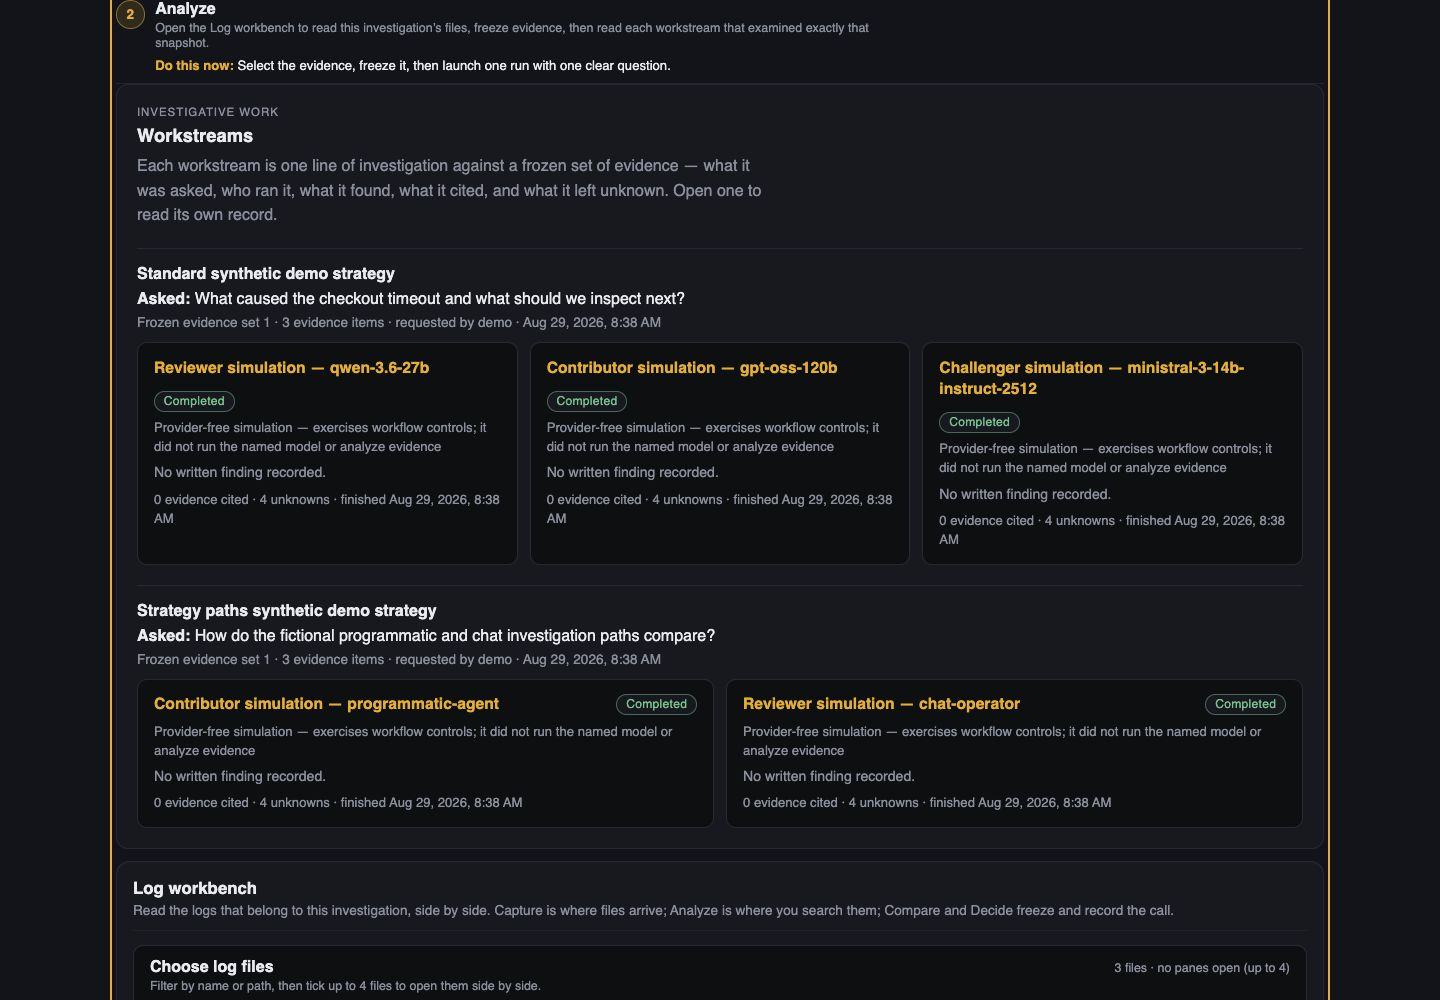
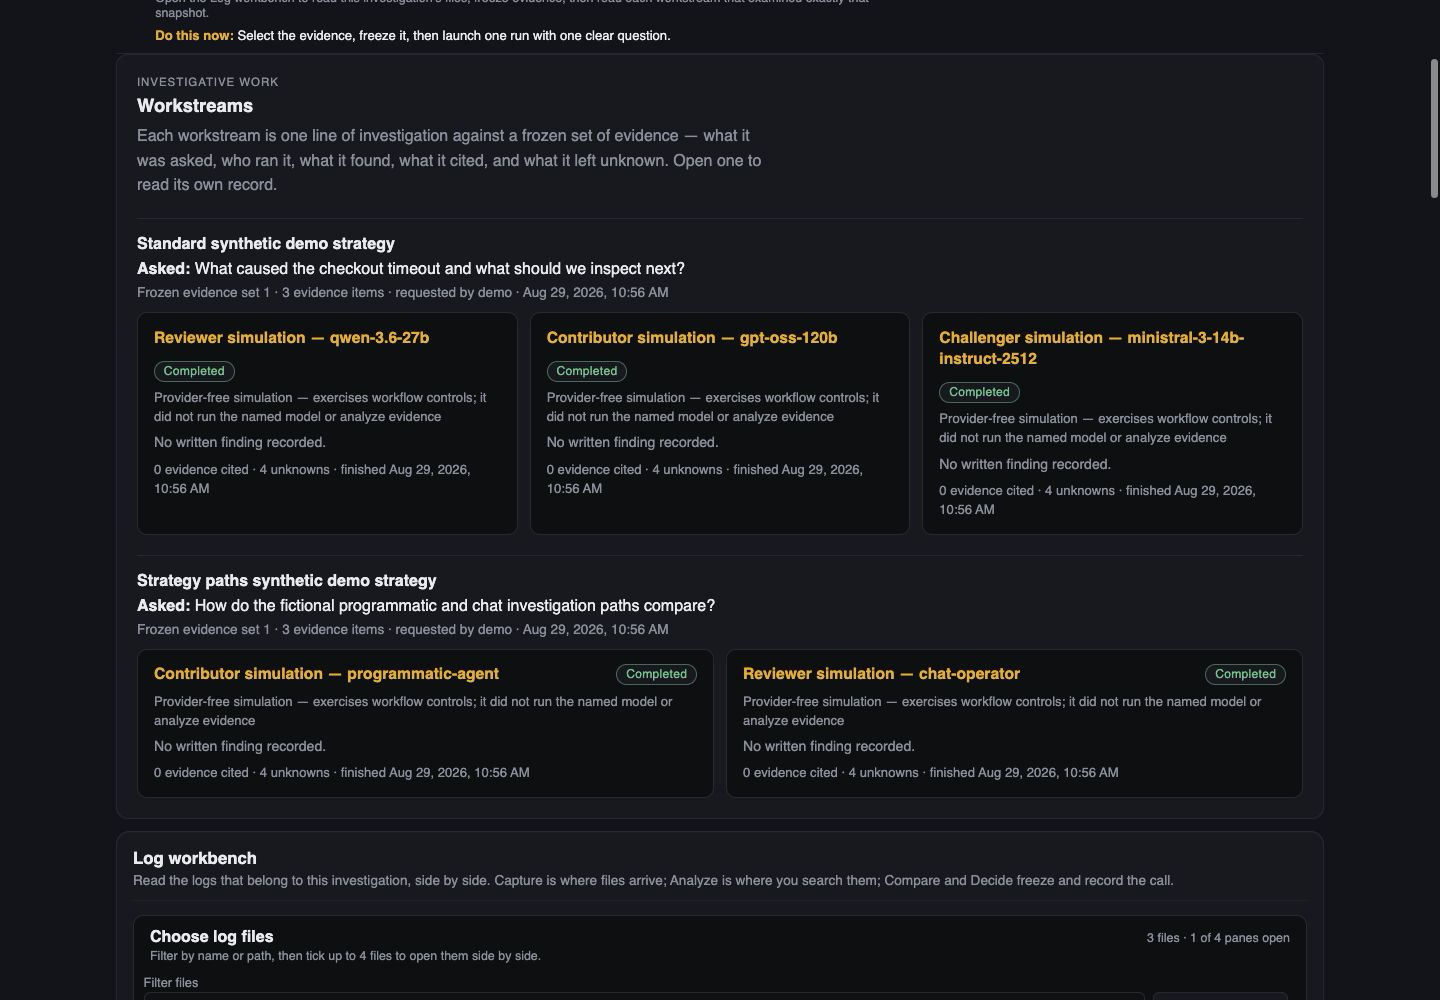
Refresh Analyze gallery for current workbench default

diff --git a/docs/media/README.md b/docs/media/README.md
@@ -53,16 +53,19 @@ credential, private path, or non-synthetic corpus is visible.
 | --- | --- | --- | --- | --- |
 | `gallery/war-room-overview.png` | Overview activity feed and active investigation | 1440 × 1000 PNG | `5508e9e63b540d1ba5080fc7d70eecd74f08e332` | Synthetic checkout-timeout War Room demo |
 | `gallery/war-room-capture-analyze.png` | Capture provenance, imported-output boundary, and corpus intake | 1440 × 1000 PNG | `5508e9e63b540d1ba5080fc7d70eecd74f08e332` | Synthetic checkout-timeout War Room demo |
-| `gallery/war-room-analyze.png` | Workstreams and investigation-owned Log workbench | 1440 × 1000 PNG | `5508e9e63b540d1ba5080fc7d70eecd74f08e332` | Synthetic checkout-timeout War Room demo |
+| `gallery/war-room-analyze.png` | Workstreams and current default-selected checkout.log in the investigation-owned Log workbench | 1440 × 1000 PNG | `af3ab0ae88ddb9fa143149f52f38e9e0704e625c` | Synthetic checkout-timeout War Room demo |
 | `gallery/war-room-compare-decide.png` | Comparison lab, evidence, deep links, and lane focus | 1440 × 1000 PNG | `5508e9e63b540d1ba5080fc7d70eecd74f08e332` | Synthetic checkout-timeout War Room demo |
 | `gallery/war-room-decide-export.png` | Portable archive download and dry-run controls with exact-restore warning | 1440 × 1000 PNG | `5508e9e63b540d1ba5080fc7d70eecd74f08e332` | Synthetic checkout-timeout War Room demo |
 | `gallery/war-room-export.png` | Portable archive download and dry-run controls with exact-restore warning | 1440 × 1000 PNG | `5508e9e63b540d1ba5080fc7d70eecd74f08e332` | Synthetic checkout-timeout War Room demo |
 
-**Known residual — this is not a single-build gallery.** The War Room set is a
-current, single-SHA browser capture, while the three native desktop frames
-still span earlier packaged-app builds. `gallery/logs-library-demo.png` predates
-the Logs toolbar regrouping. Closing that native residual requires recapture
-from one freshly built `.app`; it cannot be discharged by editing this file.
+**Known residual — this is not a single-build gallery.** The Analyze frame was
+refreshed at `af3ab0ae88ddb9fa143149f52f38e9e0704e625c` to show the current
+default-open workbench pane; the other War Room frames remain exact captures of
+`5508e9e63b540d1ba5080fc7d70eecd74f08e332`, while the three native desktop
+frames still span earlier packaged-app builds. `gallery/logs-library-demo.png`
+predates the Logs toolbar regrouping. Closing that residual requires a full
+recapture from one freshly built release; it cannot be discharged by editing
+this file.
 
 ## Publication privacy gate
 
